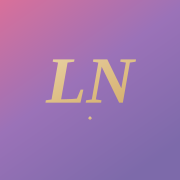
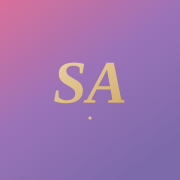
アプリ名を「Lumina Nail」から「S'Argent」に変更
- ログイン画面・ヘッダー・ブラウザタブ・ホーム画面追加時の名前を変更
- 新しいSAモノグラムのアイコンに差し替え(ゴールド×ブランドグラデーション)
- PDFレポートのタイトルも変更
- GitHubリポジトリ名・公開URL・Firebaseログイン用メールアドレスは
  既存のログイン設定を壊さないためlumina-nailのまま維持

Changed region(s): [[0.25, 0.3056, 0.75, 0.5833]]

diff --git a/index.html b/index.html
@@ -9,14 +9,14 @@
       content="width=device-width, initial-scale=1.0, viewport-fit=cover, maximum-scale=1.0"
     />
     <meta name="theme-color" content="#d9709a" />
-    <meta name="description" content="Lumina Nail - ネイルサロン向け予約・会計管理アプリ" />
+    <meta name="description" content="S'Argent - ネイルサロン向け予約・会計管理アプリ" />
 
     <!-- iPhoneでホーム画面に追加した際にブラウザUIなしで起動させるための設定 -->
     <meta name="apple-mobile-web-app-capable" content="yes" />
     <meta name="apple-mobile-web-app-status-bar-style" content="black-translucent" />
-    <meta name="apple-mobile-web-app-title" content="Lumina Nail" />
+    <meta name="apple-mobile-web-app-title" content="S'Argent" />
 
-    <title>Lumina Nail</title>
+    <title>S'Argent</title>
     <!-- manifest.json と Service Worker の登録は vite-plugin-pwa が自動で注入する -->
   </head>
   <body>

diff --git a/src/lib/trash.ts b/src/lib/trash.ts
@@ -19,7 +19,7 @@ const TRASH_RETENTION_DAYS = 30;
 /**
  * ゴミ箱(論理削除済み予約)まわりのロジック
  * -----------------------------------------------------------------------
- * 【重要な制約】Lumina Nailはサーバーレス構成(Firebase無料枠のみ)で、
+ * 【重要な制約】S'Argentはサーバーレス構成(Firebase無料枠のみ)で、
  * 定期実行サーバー(Cloud Functions等)を使わない方針のため、
  * 「30日後に自動削除」はサーバー側のスケジューラーでは実現できない。
  * 代わりに、ゴミ箱画面を開くたびに期限切れの予約をクライアント側から

diff --git a/src/lib/authMapping.ts b/src/lib/authMapping.ts
@@ -3,7 +3,7 @@ import type { UserRole } from '../types';
 /**
  * 認証まわりの定数・変換ロジック
  * -----------------------------------------------------------------------
- * Lumina Nailはユーザーが「オーナー」「従業員」の2名のみという特殊な要件のため、
+ * S'Argentはユーザーが「オーナー」「従業員」の2名のみという特殊な要件のため、
  * Firebase Authenticationの標準的なメール/パスワード認証を、画面上はID/PW入力に
  * 見せかけて使う。実際の認証は下記の疑似メールアドレスに対して行う。
  *

diff --git a/vite.config.ts b/vite.config.ts
@@ -18,8 +18,8 @@ export default defineConfig({
 
       // アプリの見た目(ホーム画面追加時のアイコン・名称・色)
       manifest: {
-        name: 'Lumina Nail',
-        short_name: 'Lumina Nail',
+        name: "S'Argent",
+        short_name: "S'Argent",
         description: 'ネイルサロン向け予約・会計管理アプリ',
         lang: 'ja',
         start_url: REPO_BASE_PATH,

diff --git a/src/pages/LoginPage.tsx b/src/pages/LoginPage.tsx
@@ -40,7 +40,7 @@ export default function LoginPage() {
         {/* ブランドヘッダー */}
         <div className="text-center mb-8">
           <p className="text-xs tracking-[0.3em] text-lumina-wisteria font-medium mb-2">
-            LUMINA NAIL
+            S'ARGENT
           </p>
           <h1 className="text-3xl text-ink" style={{ fontFamily: 'var(--font-display)' }}>
             ログイン

diff --git a/src/pages/RevenuePage.tsx b/src/pages/RevenuePage.tsx
@@ -287,7 +287,7 @@ function PrintableRevenueReport({
 
   return (
     <div className="print-only p-8 text-black">
-      <h1 className="text-2xl font-bold mb-1">Lumina Nail 売上レポート</h1>
+      <h1 className="text-2xl font-bold mb-1">S'Argent 売上レポート</h1>
       <p className="text-sm mb-6">対象期間: {periodLabel}</p>
 
       <table className="w-full text-sm mb-8 border-collapse">

diff --git a/src/index.css b/src/index.css
@@ -1,7 +1,7 @@
 @import 'tailwindcss';
 
 /**
- * Lumina Nail ブランドカラートークン
+ * S'Argent ブランドカラートークン
  * 高級ネイルサロンをイメージした「白 × ピンクベージュ × ゴールド」の配色。
  * EASENサロンの既存Webサイトと統一感を持たせたパレットをベースにしている。
  */

diff --git a/src/components/AppHeader.tsx b/src/components/AppHeader.tsx
@@ -16,7 +16,7 @@ export default function AppHeader({ title }: AppHeaderProps) {
       <div className="flex items-center justify-between">
         <div>
           <p className="text-[10px] tracking-[0.3em] text-white/70 font-medium">
-            LUMINA NAIL
+            S'ARGENT
           </p>
           <h1
             className="text-2xl text-white"

diff --git a/src/types/index.ts b/src/types/index.ts
@@ -1,5 +1,5 @@
 /**
- * Lumina Nail 型定義
+ * S'Argent 型定義
  * -----------------------------------------------------------------------
  * アプリ全体で共有するドメインモデルをここに集約する。
  * Firestore のドキュメント形状とほぼ1対1になるように設計している。

diff --git a/README.md b/README.md
@@ -1,6 +1,11 @@
-# Lumina Nail
+# S'Argent(旧: Lumina Nail)
 
 ネイルサロン向け 予約・会計管理 WEBアプリ(PWA対応・iPhoneホーム画面追加対応)
+
+> ⚠ アプリの表示名は「S'Argent」に変更されましたが、GitHubリポジトリ名・公開URL・
+> Firebaseログイン用メールアドレス(owner@lumina-nail.local等)は、既存のログイン設定を
+> 壊さないよう `lumina-nail` のまま変更していません。画面に表示される名前・アイコンのみが
+> 変わります。
 
 すべての開発ステップが完了しました(10/10)。**パソコンへのソフトのインストールや
 ターミナル操作は一切不要**で、GitHubに保存するだけで自動的に公開される構成になっています。
